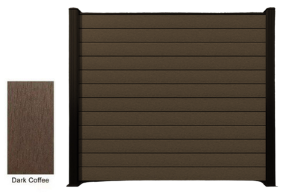
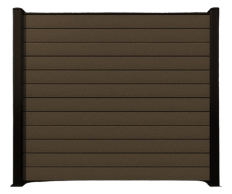
changes imgs

diff --git a/src/components/Cart.js b/src/components/Cart.js
@@ -45,12 +45,20 @@ export const Cart = ({ cartOpen, setCartOpen, cartItems, setCartItems }) => {
   }, [cartItems]);
 
   const handleDelete = (id) => {
-    setCartItems((currentItems) => {
-      if (currentItems.find((item) => item.id !== id)) {
-        return currentItems.filter((item) => item.id !== id);
-      }
-    });
+    if (cartItems.length > 1) {
+
+      setCartItems((currentItems) => {
+        if (currentItems.find((item) => item.id !== id)) {
+          return currentItems.filter((item) => item.id !== id);
+        }
+      });
+    }
   };
+
+  const empty = () => {
+    setCartItems([])
+  }
+
   return (
     <>
       {cartOpen ? (
@@ -83,6 +91,7 @@ export const Cart = ({ cartOpen, setCartOpen, cartItems, setCartItems }) => {
                 } else {
                   return (
                     <CartElement
+                      cartItems={cartItems}
                       onRemove={handleDelete}
                       src={item.src}
                       id={item.id}
@@ -93,7 +102,10 @@ export const Cart = ({ cartOpen, setCartOpen, cartItems, setCartItems }) => {
                 }
               })}
             </div>
-            <div className="w-[90%] flex justify-end">
+            <div className="w-[90%] flex justify-between">
+              <button onClick={empty} className="self-end mt-6 rounded-lg py-1 px-6 border-2 font-bold duration-500 bg-white border-black hover:bg-black hover:text-white">
+                Изтрий всички
+              </button>
               <button className="self-end mt-6 rounded-lg py-1 px-6 border-2 font-bold duration-500 bg-white border-black hover:bg-black hover:text-white">
                 Към Поръчка
               </button>
@@ -114,8 +126,7 @@ const CartItem = ({
   height,
   isProject,
   perimeter,
-  itemType,
-  setCartItems,
+  cartItems,
   id,
   onRemove,
 }) => {
@@ -126,7 +137,7 @@ const CartItem = ({
       </button>
       <div className="flex items-center justify-between w-full">
         <img className="w-16" src={colors[color]} />
-        <div className="flex pl-4 w-full flex-col items-center">
+        <div className="flex pl-4 w-[80%] flex-col items-center">
           <p className="text-lg">цвят {colorNames[color]}</p>
           {perimeter ? (
             <p className="text-md self-start">
@@ -142,7 +153,7 @@ const CartItem = ({
             </p>
           )}
         </div>
-        <p className="ml-auto ">x {panelCount}</p>
+        <p className="ml-auto">x {panelCount}</p>
       </div>
       <div className=" w-full flex flex-col justify-start items-center">
         <p className="w-full border-b">WPC стълб х {panelCount + 1}</p>
@@ -164,7 +175,7 @@ const CartItem = ({
 const CartElement = ({ count, itemName, src, onRemove, id }) => {
   return (
     <div className="shadow-md p-4 bg-white w-[90%] h-[100px] rounded-md flex justify-center items-center">
-      <div className="flex justify-center items-center">
+      <div className="flex justify-center w-full items-center">
         <img className="w-16" src={src} />
         <p className="pl-4 w-[60%]"> {itemName}</p>
         <p className="ml-auto">x {count}</p>

diff --git a/src/components/DimentionForms/DefaultSize.js b/src/components/DimentionForms/DefaultSize.js
@@ -13,6 +13,30 @@ import teak from "../Colors/teak.png";
 import rosewood from "../Colors/rosewood.png";
 import reddishBrown from "../Colors/reddishBrown.png";
 
+import BlackSquare from '../../colors/Black.png'
+import DarkCoffeeSquare from '../../colors/DarkCoffee.png'
+import GreenSquare from '../../colors/Green.png'
+import LightCoffeeSquare from '../../colors/LightCoffee.png'
+import LightGreySquare from '../../colors/LightGrey.png'
+import MapleSquare from '../../colors/Maple.png'
+import ReddishBrownSquare from '../../colors/ReddishBrown.png'
+import RosewoodSquare from '../../colors/Rosewood.png'
+import SandyBrownSquare from '../../colors/SandyBrown.png'
+import TeakSquare from '../../colors/Teak.png'
+
+const colorSquares = {
+  black: BlackSquare,
+  darkCoffee: DarkCoffeeSquare,
+  green: GreenSquare,
+  lightCoffee: LightCoffeeSquare,
+  lightGrey: LightGreySquare,
+  maple: MapleSquare,
+  sandyBrown: SandyBrownSquare,
+  teak: TeakSquare,
+  rosewood: RosewoodSquare,
+  reddishBrown: ReddishBrownSquare,
+};
+
 const colors = {
   black: black,
   darkCoffee: darkCoffee,
@@ -56,10 +80,17 @@ export const DefaultSize = ({ color, updateFields, isValid, setIsValid }) => {
   return (
     <div className="flex items-center flex-col justify-between w-full">
       <div className="w-full flex flex-col justify-evenly gap-3 items-center">
-        <img
-          src={colors[color]}
-          style={{ width: `${width * 2}px`, height: `${height * 1.5}px` }}
-        ></img>
+        <div className="flex h-full items-end">
+          <div className="flex flex-col  mb-5 items-center">
+            <img src={colorSquares[color]} className="w-20 h-20  rounded-md" />
+            <p>{color}</p>
+          </div>
+          <img
+            src={colors[color]}
+            style={{ width: `${width * 2}px`, height: `${height * 1.5}px` }}
+          />
+        </div>
+        <p className="text-sm">Показаните цветове не отговарят на реалните цветове на оградите</p>
         <input
           name="width"
           className={inputStyle}

diff --git a/src/components/DimentionForms/CustomSize.js b/src/components/DimentionForms/CustomSize.js
@@ -13,6 +13,30 @@ import teak from "../Colors/teak.png";
 import rosewood from "../Colors/rosewood.png";
 import reddishBrown from "../Colors/reddishBrown.png";
 
+import BlackSquare from '../../colors/Black.png'
+import DarkCoffeeSquare from '../../colors/DarkCoffee.png'
+import GreenSquare from '../../colors/Green.png'
+import LightCoffeeSquare from '../../colors/LightCoffee.png'
+import LightGreySquare from '../../colors/LightGrey.png'
+import MapleSquare from '../../colors/Maple.png'
+import ReddishBrownSquare from '../../colors/ReddishBrown.png'
+import RosewoodSquare from '../../colors/Rosewood.png'
+import SandyBrownSquare from '../../colors/SandyBrown.png'
+import TeakSquare from '../../colors/Teak.png'
+
+const colorSquares = {
+  black: BlackSquare,
+  darkCoffee: DarkCoffeeSquare,
+  green: GreenSquare,
+  lightCoffee: LightCoffeeSquare,
+  lightGrey: LightGreySquare,
+  maple: MapleSquare,
+  sandyBrown: SandyBrownSquare,
+  teak: TeakSquare,
+  rosewood: RosewoodSquare,
+  reddishBrown: ReddishBrownSquare,
+};
+
 const colors = {
   black: black,
   darkCoffee: darkCoffee,
@@ -52,10 +76,16 @@ export const CustomSize = ({ color, updateFields, isValid, setIsValid }) => {
 
   return (
     <div className="flex items-center w-full min-h-min flex-col justify-between ">
-      <img
-        src={colors[color]}
-        style={{ width: `${width * 2}px`, height: `${height * 1.2}px` }}
-      ></img>
+      <div className="flex h-full items-end">
+        <div className="flex flex-col  mb-5 items-center">
+          <img src={colorSquares[color]} className="w-20 h-20  rounded-md" />
+          <p>{color}</p>
+        </div>
+        <img
+          src={colors[color]}
+          style={{ width: `${width * 2}px`, height: `${height * 1.5}px` }}
+        />
+      </div>
 
       <div className="w-full flex flex-col justify-center items-center">
         <div className="flex flex-col justify-center items-center w-11/12 h-11/12">

diff --git a/src/components/Carosel/Carosel.js b/src/components/Carosel/Carosel.js
@@ -68,7 +68,7 @@ export const Carosel = ({ cartItems, setCartItems, setIsPopupOpen }) => {
     });
   }
 
-  useEffect(() => {}, [imageIndex]);
+  useEffect(() => { }, [imageIndex]);
 
   const [count, setCount] = useState(0);
   const [invalid, setInvalid] = useState(false);
@@ -91,6 +91,7 @@ export const Carosel = ({ cartItems, setCartItems, setIsPopupOpen }) => {
       src: images[imageIndex],
       id: uniqid(),
     };
+    console.log(cartItems);
     const newList = [...cartItems];
     setCartItems([...newList, item]);
     setCount(1);

diff --git a/src/components/DimentionForms/Project.js b/src/components/DimentionForms/Project.js
@@ -6,7 +6,7 @@ import { AiOutlinePlus, AiOutlineMinus } from "react-icons/ai";
 export const Project = ({ updateFields, isValid, setIsValid }) => {
   const [p, setP] = useState("");
   const [pInvalid, setPInvalid] = useState(false);
-  const [height, setHeight] = useState(180);
+  const [height, setHeight] = useState(210);
 
   const handlePerimeter = (e) => {
     setP(e.target.value);

diff --git a/src/components/MainForm.js b/src/components/MainForm.js
@@ -43,7 +43,6 @@ export function MainForm({
   function addToCart(e) {
     const newList = cartItems;
     setCartItems([...newList, data]);
-    console.log(data);
   }
   const {
     steps,
